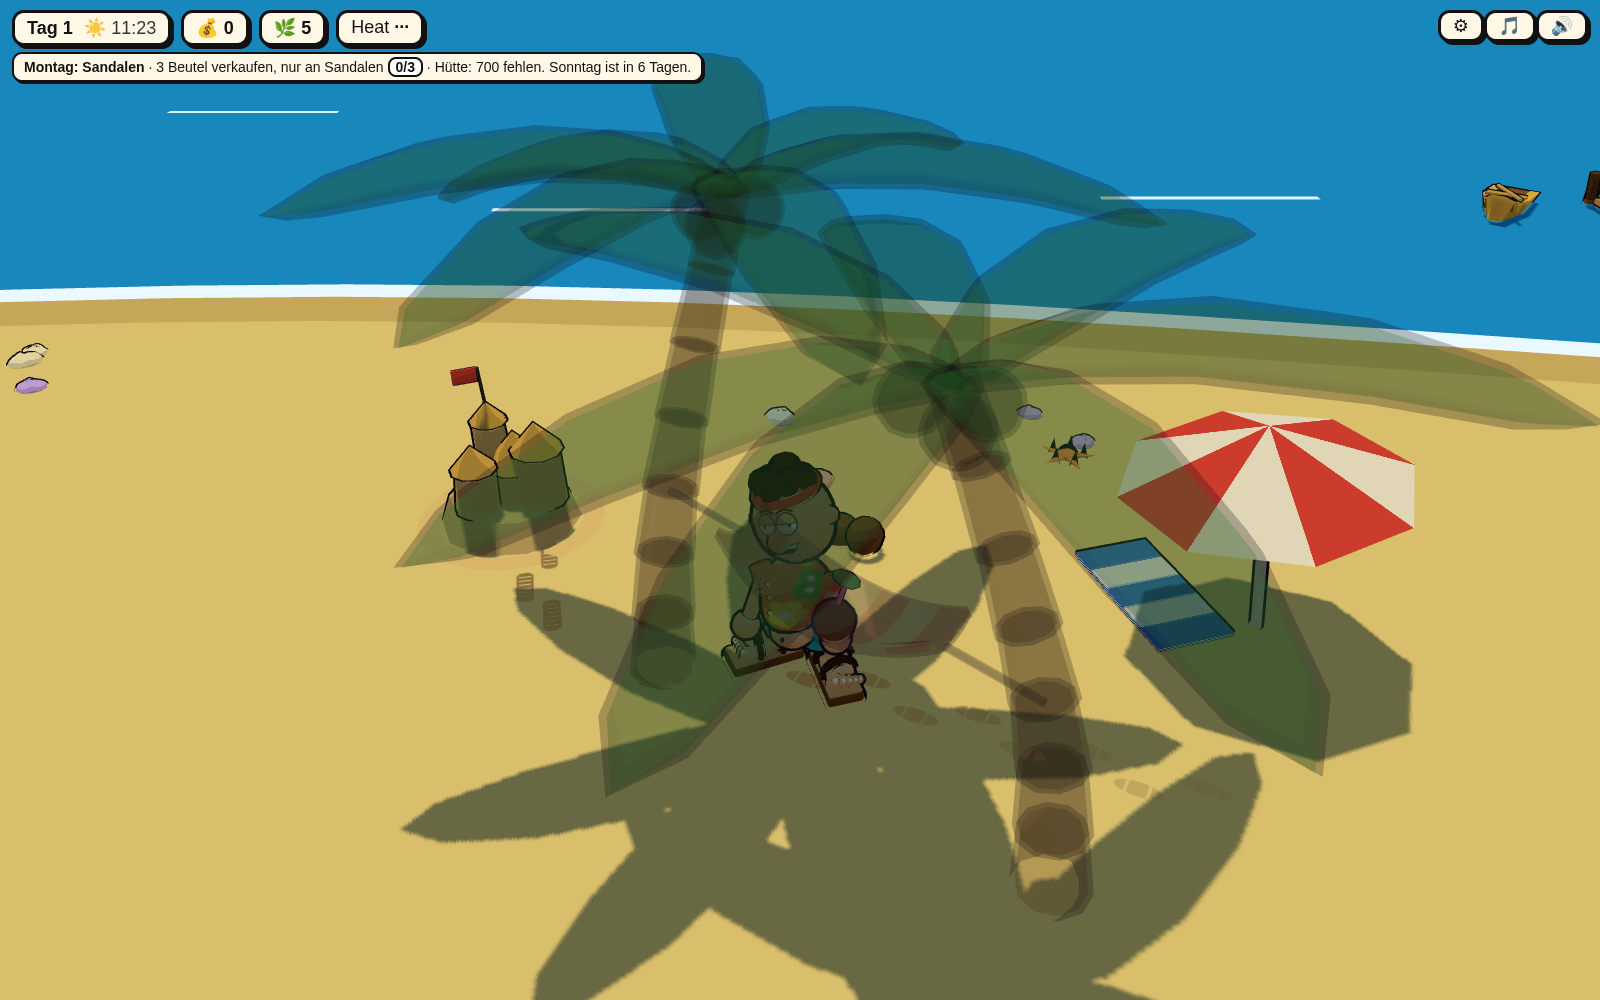
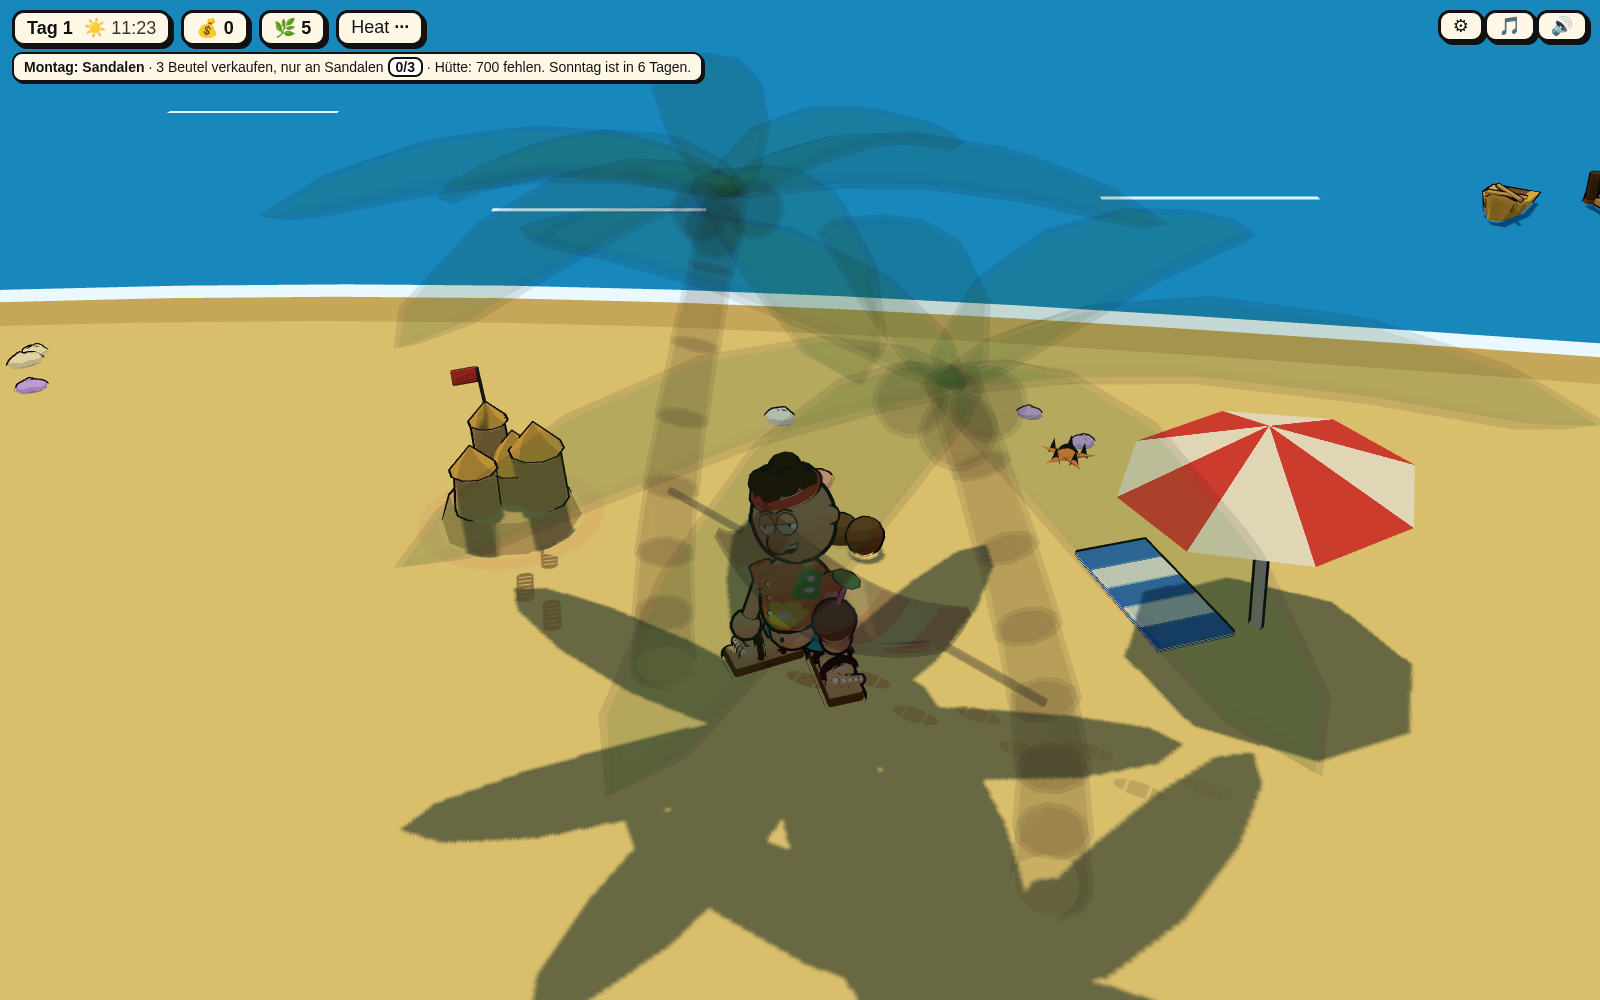
Palmen verdecken nicht mehr grün, Sprachclips vorbereitet

Changed region(s): [[0.1562, 0.031, 1.0, 0.868], [0.8125, 0.744, 0.8438, 0.775]]

diff --git a/spiel/js/main.js b/spiel/js/main.js
@@ -128,6 +128,7 @@ function applyAudioOptionen() {
 }
 let audioStarted = false;
 function startAudio() {
+  try { audio?.preloadAusrufe?.('alle'); } catch (e) { /* ohne Clips */ } // Clips dekodieren, sobald eine Geste da ist
   if (!audio) return;
   try {
     if (!audio.ambience?.isPlaying?.()) { audio.ambience?.start?.(); audio.music?.start?.(); }
@@ -150,7 +151,7 @@ function updateAmbience(now) {
 }
 import('./audio.js').then((m) => {
   audio = m;
-  try { audio.initAudio?.(); audio.loadStimmen?.(); } catch (e) { /* ignorieren */ }
+  try { audio.initAudio?.(); audio.loadStimmen?.(); audio.loadAusrufe?.(); } catch (e) { /* ignorieren */ } // Ausrufe: Manifest + data/ausrufe.json
   const el = document.getElementById('mute');
   if (el) el.style.display = 'block';
   const mb = document.getElementById('music');
@@ -1054,15 +1055,17 @@ const fadeRay = new THREE.Raycaster(); fadeRay.camera = camera;
 const tmpV = new THREE.Vector3();
 const tmpSphere = new THREE.Sphere();
 const FADE_OPACITY = 0.25;
-function fadeMesh(m) {
-  if (faded.has(m) || !m.isMesh) return;
+const FADE_OPACITY_PALME = 0.1; // Palmenkrone/-stamm über dem Spieler: fast weg, sonst färbt der grüne Schleier die Figur
+function fadeMesh(m, op = FADE_OPACITY) {
+  if (!m.isMesh) return;
+  if (faded.has(m)) { for (const c of (Array.isArray(m.material) ? m.material : [m.material])) { if (c.isShaderMaterial) c.uniforms.opacity.value = op; else c.opacity = op; } return; }
   const orig = m.material;
   faded.set(m, orig);
   const mats = Array.isArray(orig) ? orig : [orig];
   const clones = mats.map((mat) => {
     const c = mat.clone();
     c.transparent = true;
-    if (c.isShaderMaterial) c.uniforms.opacity.value = FADE_OPACITY; else c.opacity = FADE_OPACITY;
+    if (c.isShaderMaterial) c.uniforms.opacity.value = op; else c.opacity = op;
     c.depthWrite = false;
     return c;
   });
@@ -1112,7 +1115,7 @@ function updateFade(focus) {
       if (tmpSphere.distanceToPoint(camPos) < 2.5) groups.add(o);
     });
   }
-  for (const grp of groups) grp.traverse((m) => { if (m.isMesh) { fadeMesh(m); keep.add(m); } });
+  for (const grp of groups) { const op = grp.userData.crown ? FADE_OPACITY_PALME : FADE_OPACITY; grp.traverse((m) => { if (m.isMesh) { fadeMesh(m, op); keep.add(m); } }); }
   unfadeAll(keep);
   // beim Hinschauen den Spieler ganz ausblenden (inkl. Schatten) — halbtransparente Hüllen würden zu Matsch
   player.visible = mode !== 'inspect';
